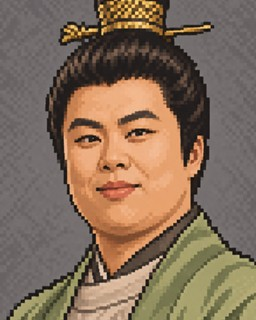
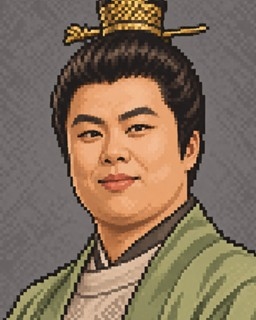
웹 업데이트 2026-11-28 13:51

diff --git a/index.html b/index.html
@@ -9,7 +9,7 @@
   <link rel="preload" href="fonts/Sam3KRFont.woff" as="font" type="font/woff" crossorigin><!-- 글꼴을 가장 먼저 받기 시작 -->
   <link rel="preload" href="img/loading.png" as="image"><!-- 로딩 그림도 먼저 -->
   <link rel="icon" type="image/svg+xml" href="img/favicon.svg">
-<link rel="stylesheet" href="style.css?v=20261128135122">
+<link rel="stylesheet" href="style.css?v=20261128135151">
 </head>
 <body class="loading">
   <header class="win titlebar">
@@ -197,24 +197,24 @@
 
   <script src="https://cdn.jsdelivr.net/npm/@supabase/supabase-js@2.45.4/dist/umd/supabase.min.js"></script>
   <script src="https://accounts.google.com/gsi/client" async></script><!-- 구글 로그인 단추 -->
-  <script src="server.js?v=20261128135122"></script>
-  <script src="mapcore.js?v=20261128135122"></script>
-  <script src="data/map.js?v=20261128135122"></script>
-  <script src="rules.js?v=20261128135122"></script>
-  <script src="faces.js?v=20261128135122"></script>
-  <script src="patchnotes.js?v=20261128135122"></script>
+  <script src="server.js?v=20261128135151"></script>
+  <script src="mapcore.js?v=20261128135151"></script>
+  <script src="data/map.js?v=20261128135151"></script>
+  <script src="rules.js?v=20261128135151"></script>
+  <script src="faces.js?v=20261128135151"></script>
+  <script src="patchnotes.js?v=20261128135151"></script>
   <!-- 시즌별 패치노트: 옛 시즌부터 (마지막 줄이 최신) -->
-  <script src="patchnotes/s3.js?v=20261128135122"></script>
-  <script src="patchnotes/s4.js?v=20261128135122"></script>
-  <script src="patchnotes/s5.js?v=20261128135122"></script>
-  <script src="patchnotes/s6.js?v=20261128135122"></script>
-  <script src="patchnotes/s7.js?v=20261128135122"></script>
-  <script src="patchnotes/s8.js?v=20261128135122"></script>
-  <script src="patchnotes/s9.js?v=20261128135122"></script>
-  <script src="mapbg.js?v=20261128135122"></script>
-  <script src="map.js?v=20261128135122"></script>
-  <script src="engine.js?v=20261128135122"></script>
-  <script src="game.js?v=20261128135122"></script>
-  <script src="help.js?v=20261128135122"></script><!-- 새 도움말 (2026-11-25) -->
+  <script src="patchnotes/s3.js?v=20261128135151"></script>
+  <script src="patchnotes/s4.js?v=20261128135151"></script>
+  <script src="patchnotes/s5.js?v=20261128135151"></script>
+  <script src="patchnotes/s6.js?v=20261128135151"></script>
+  <script src="patchnotes/s7.js?v=20261128135151"></script>
+  <script src="patchnotes/s8.js?v=20261128135151"></script>
+  <script src="patchnotes/s9.js?v=20261128135151"></script>
+  <script src="mapbg.js?v=20261128135151"></script>
+  <script src="map.js?v=20261128135151"></script>
+  <script src="engine.js?v=20261128135151"></script>
+  <script src="game.js?v=20261128135151"></script>
+  <script src="help.js?v=20261128135151"></script><!-- 새 도움말 (2026-11-25) -->
 </body>
 </html>

diff --git a/game.js b/game.js
@@ -2181,7 +2181,7 @@ function tourOpenDuel(T, m) {
   tourCloseDuel();
   const w = document.createElement('div');
   w.id = 'duelWrap';
-  w.innerHTML = `<div class="duelBox"><div class="duelBar"><span>${tourIcon(T)} ${tourMatchName(m.slot)} · ${esc(m.names[0])} vs ${esc(m.names[1])}</span><button class="duelClose">✕ 대진표로</button></div><iframe src="duel.html?v=20261128135122&kind=${tourKind(T)}#web&id=${T.id}-${m.slot}" title="무술대회 경기"></iframe></div>`;
+  w.innerHTML = `<div class="duelBox"><div class="duelBar"><span>${tourIcon(T)} ${tourMatchName(m.slot)} · ${esc(m.names[0])} vs ${esc(m.names[1])}</span><button class="duelClose">✕ 대진표로</button></div><iframe src="duel.html?v=20261128135151&kind=${tourKind(T)}#web&id=${T.id}-${m.slot}" title="무술대회 경기"></iframe></div>`;
   w.querySelector('.duelClose').onclick = tourCloseDuel;
   document.body.appendChild(w); fitDuel(w);
   bgmHold(true);
@@ -2191,7 +2191,7 @@ function tourOpenPractice(kind = 'martial') { // kind: 'debate'면 설전 연습
   tourCloseDuel();
   const w = document.createElement('div');
   w.id = 'duelWrap';
-  w.innerHTML = `<div class="duelBox"><div class="duelBar"><span>${kind === 'debate' ? '🗣 설전 연습' : '🥋 연습 경기'}</span><button class="duelClose">✕ 닫기</button></div><iframe src="duel.html?v=20261128135122&kind=${kind}#practice" title="연습 경기"></iframe></div>`;
+  w.innerHTML = `<div class="duelBox"><div class="duelBar"><span>${kind === 'debate' ? '🗣 설전 연습' : '🥋 연습 경기'}</span><button class="duelClose">✕ 닫기</button></div><iframe src="duel.html?v=20261128135151&kind=${kind}#practice" title="연습 경기"></iframe></div>`;
   w.querySelector('.duelClose').onclick = tourCloseDuel;
   document.body.appendChild(w); fitDuel(w);
   bgmHold(true);
@@ -2201,7 +2201,7 @@ function tourOpenRules() {
   tourCloseDuel();
   const w = document.createElement('div');
   w.id = 'duelWrap';
-  w.innerHTML = `<div class="duelBox"><div class="duelBar"><span>📖 ${tourName(tourT())} 규칙</span><button class="duelClose">✕ 대진표로</button></div><iframe src="duel.html?v=20261128135122&kind=${tourKind(tourT())}#rules" title="대회 규칙"></iframe></div>`;
+  w.innerHTML = `<div class="duelBox"><div class="duelBar"><span>📖 ${tourName(tourT())} 규칙</span><button class="duelClose">✕ 대진표로</button></div><iframe src="duel.html?v=20261128135151&kind=${tourKind(tourT())}#rules" title="대회 규칙"></iframe></div>`;
   w.querySelector('.duelClose').onclick = tourCloseDuel;
   document.body.appendChild(w); fitDuel(w);
 }

diff --git a/duel.html b/duel.html
@@ -4,7 +4,7 @@
 <meta charset="utf-8">
 <meta name="viewport" content="width=device-width, initial-scale=1">
 <title>무술대회</title>
-<link rel="stylesheet" href="style.css?v=20261128135122">
+<link rel="stylesheet" href="style.css?v=20261128135151">
 <!-- 무술대회 대결 화면 (웹, 2026-11-14). 게임 화면(game.js tourOpenDuel)이 iframe으로 띄운다: duel.html#web&id=경기id
      lab/martial.html(연구용)에서 만들었다. 규칙은 duel_rules.js, 판정·손패는 서버(duel_core.js)가 한다.
      서버와는 부모 창(게임)의 로그인을 그대로 쓴다: parent.api('duelView'|'duelAct'), parent.sb(실시간 알림 'duel-경기id') -->
@@ -278,7 +278,7 @@
   </div>
 </div>
 
-<script src="duel_rules.js?v=20261128135122"></script>
+<script src="duel_rules.js?v=20261128135151"></script>
 <script>
 // ↓ game.js와 같은 글자 손질 (2026-11-15 기획자: 경기장·규칙 창에도 물결 내리기 적용). game.js 쪽을 바꾸면 여기도
 // 가운데 점 붙이기·물결 내리기 (2026-11-03, 삼국지3글꼴): 이 글꼴은 '·' 자체가 넓어서 양옆 띄어쓰기를 화면에서 뺀다 ("통솔 87 · 무력" → "통솔 87·무력").

diff --git a/rogue.html b/rogue.html
@@ -4,7 +4,7 @@
 <meta charset="utf-8">
 <meta name="viewport" content="width=device-width, initial-scale=1">
 <title>맹장집결</title>
-<link rel="stylesheet" href="style.css?v=20261128135122">
+<link rel="stylesheet" href="style.css?v=20261128135151">
 <!-- 무술대회 카드 대결 연구용 (2026-11-14). 로컬 전용: tools/make_web.sh 목록에 없어서 웹에 올라가지 않는다.
      규칙 (기획자 2026-11-14 확정):
      - 동시 제출. 카드 9종 = 속공·강타·역습 × 소·중·대 (2026-11-14 공격·기술·방어에서 이름 바꿈). 상성 속공 > 강타 > 역습 > 속공. 같은 종류면 대 > 중 > 소, 같으면 비김
@@ -335,8 +335,8 @@
   </div>
 </div>
 
-<script src="duel_rules.js?v=20261128135122"></script>
-<script src="rogue_rules.js?v=20261128135122"></script>
+<script src="duel_rules.js?v=20261128135151"></script>
+<script src="rogue_rules.js?v=20261128135151"></script>
 <!-- 인트로 소리 (파일로 열어도 되게 글자로) -->
 <script>
 'use strict';

diff --git a/privacy.html b/privacy.html
@@ -5,7 +5,7 @@
 <meta name="viewport" content="width=device-width, initial-scale=1">
 <title>개인정보 처리방침 - 땅국지</title>
 <link rel="icon" type="image/svg+xml" href="img/favicon.svg">
-<link rel="stylesheet" href="style.css?v=20261128135122">
+<link rel="stylesheet" href="style.css?v=20261128135151">
 <style>
   body { padding: 16px; }
   .doc { max-width: 760px; margin: 0 auto; line-height: 1.6; }

diff --git a/terms.html b/terms.html
@@ -5,7 +5,7 @@
 <meta name="viewport" content="width=device-width, initial-scale=1">
 <title>이용약관 - 땅국지</title>
 <link rel="icon" type="image/svg+xml" href="img/favicon.svg">
-<link rel="stylesheet" href="style.css?v=20261128135122">
+<link rel="stylesheet" href="style.css?v=20261128135151">
 <style>
   body { padding: 16px; }
   .doc { max-width: 760px; margin: 0 auto; line-height: 1.6; }

diff --git a/faces.js b/faces.js
@@ -5,7 +5,7 @@
 
 // chat: 채팅 닉네임 색 (2026-10-30, 얼굴 그림의 키컬러를 어두운 바탕에서 읽히게 밝게)
 // 얼굴 그림을 바꾸면 FACE_V 숫자를 올린다 (브라우저가 예전 그림을 기억하지 않게)
-const FACE_V = 3;
+const FACE_V = 4;
 
 const FACES = [
   { id: 'm1', name: '무관 1', style: '무관', chat: '#f5a060' },
